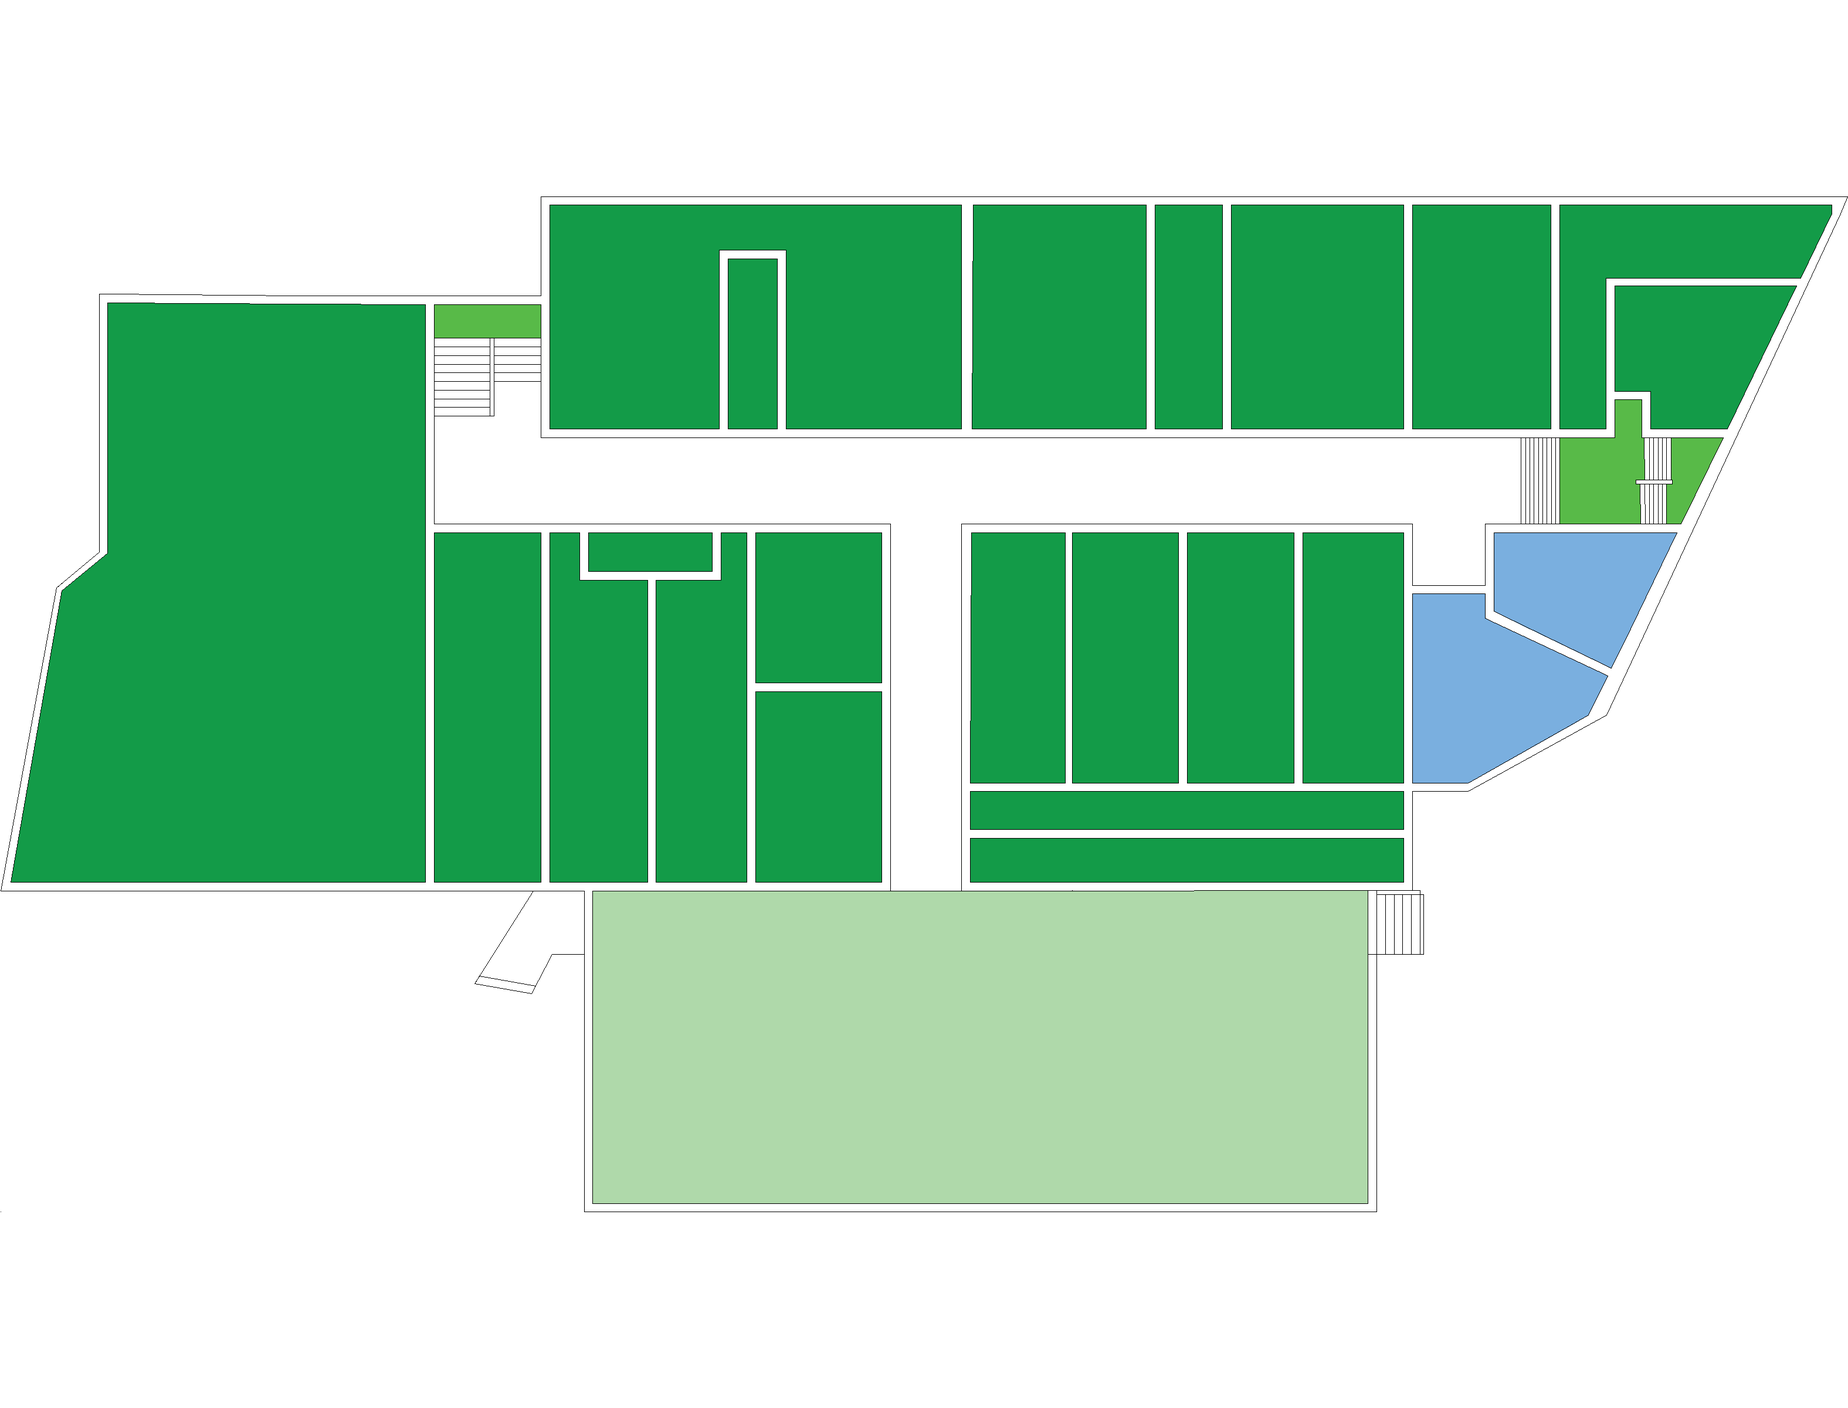
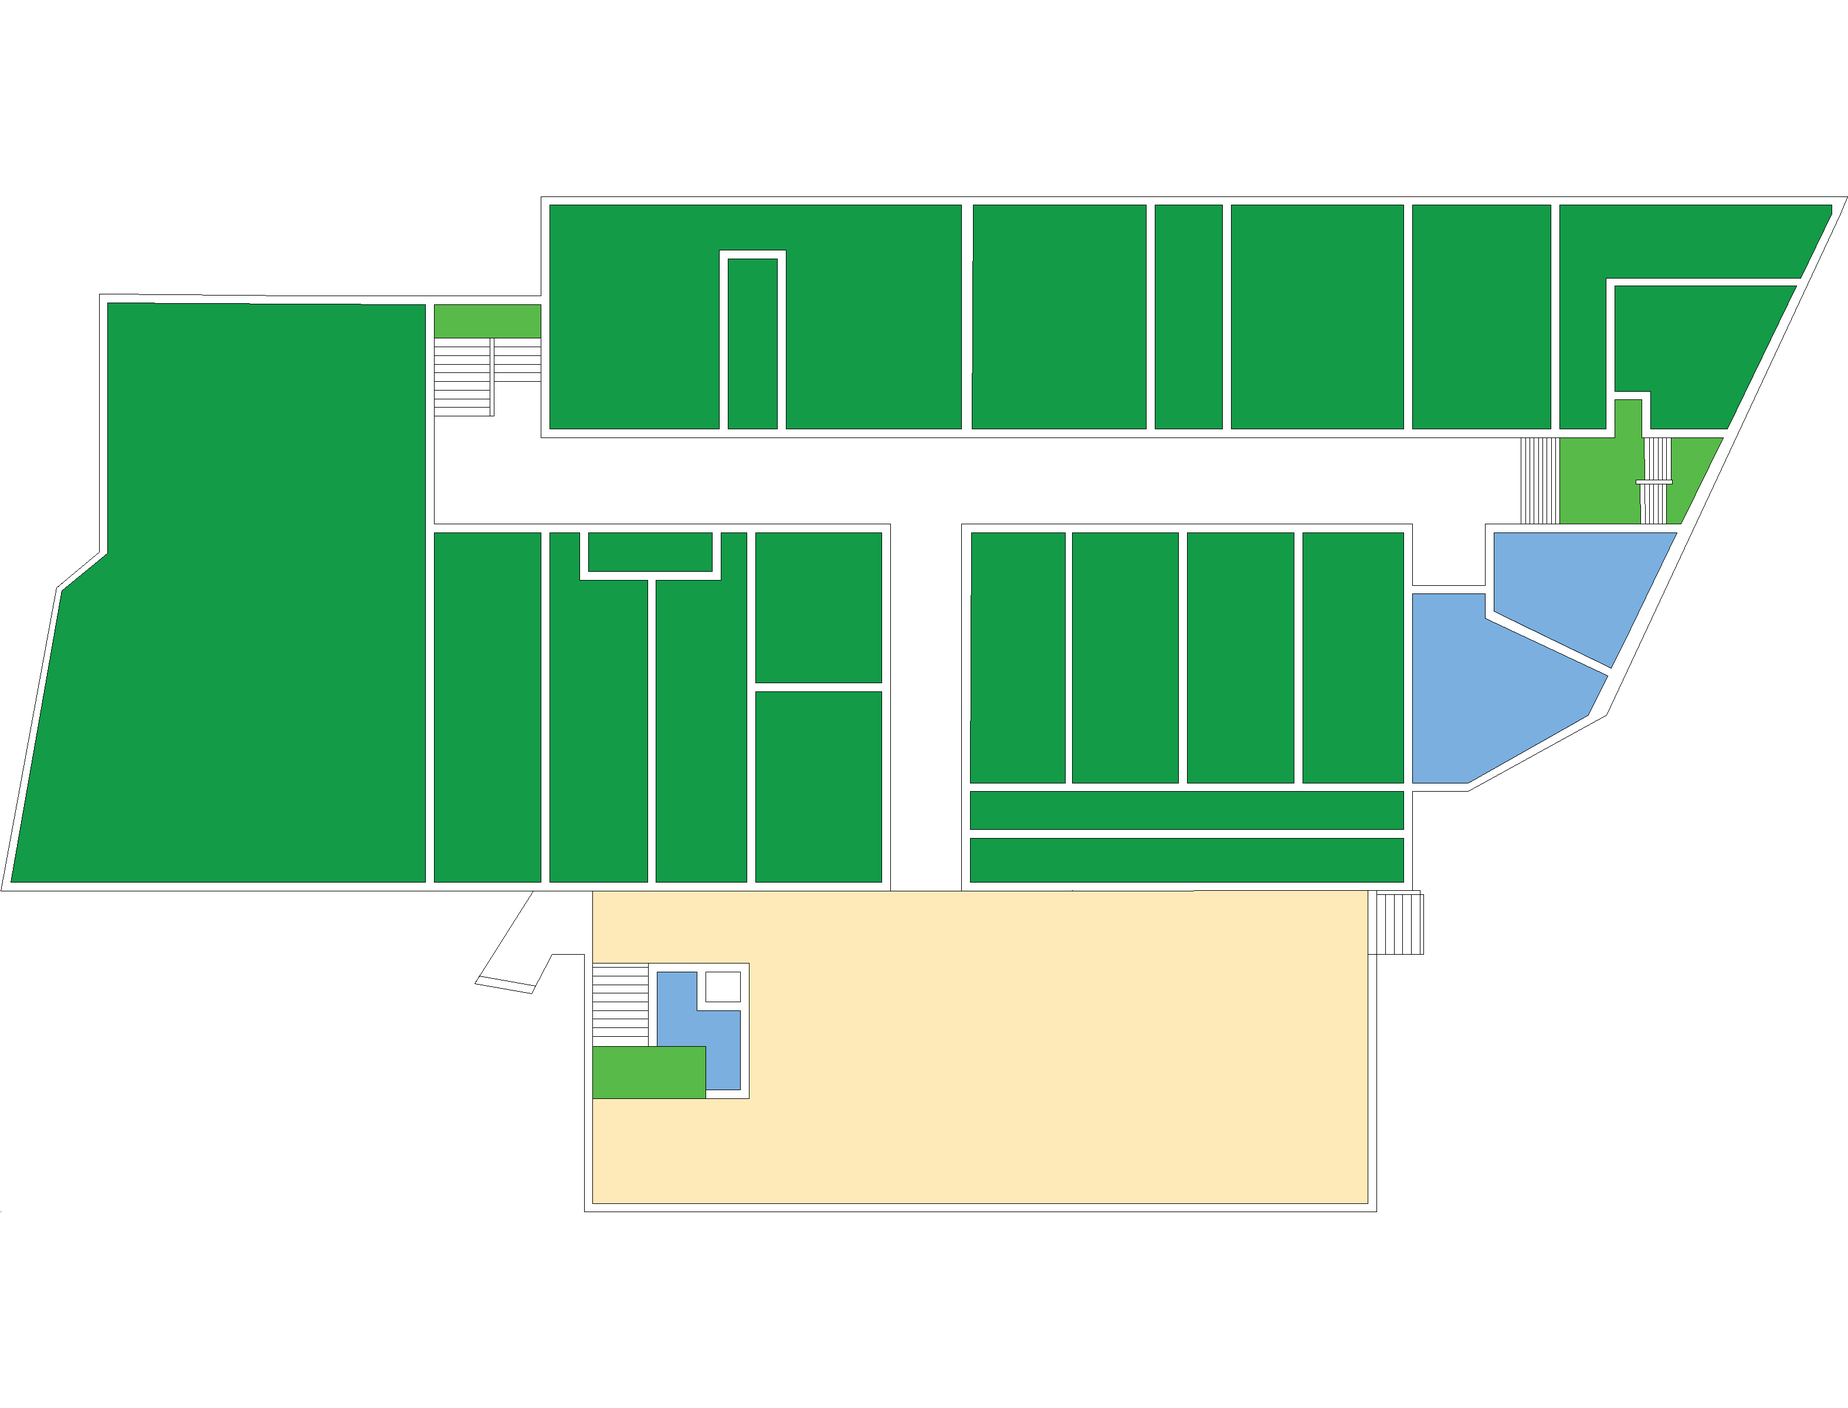
march 25.1

Changed region(s): [[0.311, 0.6247, 0.7464, 0.8746]]

diff --git a/src/buildingNodes.js b/src/buildingNodes.js
@@ -76,7 +76,7 @@ function buildingNodes(buildingName) {
             { id: 71, lat: 3.31, lon: 3.90,  }, { lat: 3, lon: 3.8, title: '',building:'PE', floor:'2nd Floor',node: 71,label: 'classroomLogo' },
             { id: 69, lat: 3.6, lon: 3.90,},
             { id: 70, lat: 3.83, lon: 3.90,  }, { lat: 4.4, lon: 3.84, title: 'classRoom',building:'Science', floor:'2nd Floor',node: 70,label: 'classroomLogo' },
-            { id: 73, lat: 3.24, lon: 3.33, label: 'leaveButton', destination: 'science1stFloor' },
+            { id: 73, lat: 3.24, lon: 3.33, label: 'leaveButton', destination: 'science1stFloor', desti: 408 },
             { id: 75, lat: 3.24, lon: 3.045,  },
             { id: 74, lat: 3.6, lon: 3.045,},
             { id: 72, lat: 3.6, lon: 3.33,}, 
@@ -172,7 +172,12 @@ function buildingNodes(buildingName) {
             { id: 401, lat: 3.45, lon: 7.4,label: 'leaveButton',destination: 'science2ndFloor', desti: 94  },
             { id: 403, lat: 3.45, lon: 2.96,  },
             { id: 404, lat: 3.05, lon: 2.75,label: 'leaveButton',destination:'BRS1stFloor', desti: 130   },
-
+            { id: 410, lat: 3.45, lon: 3.35,  },
+            { id: 411, lat: 2.4, lon: 3.35,  },
+            { id: 412, lat: 2.4, lon: 3.67,  },
+            { id: 413, lat: 2.55, lon: 3.67,label: 'leaveButton', destination: 'science2ndFloor', desti: 73  },
+            { id: 414, lat: 3.45, lon: 3.67,  },
+            { id: 415, lat: 3.17, lon: 3.67,  },
         
         ];
     }
@@ -772,7 +777,7 @@ function buildingNodes(buildingName) {
             { id: 1175, lat: 4.95, lon: 2.9,label: 'leaveButtons',},
             { id: 1176, lat: 3.5, lon: 2.9,label: 'leaveButtons',},
             { id: 1177, lat: 3.5, lon: 2.39,label: 'leaveButtons',},
-            { id: 1178, lat: 3.88, lon: 2.39,label: 'leaveButton',},
+            { id: 1178, lat: 3.88, lon: 2.39,label: 'leaveButton', destination: 'CHTMEDS6thFloor',desti: 1267},
             { id: 1179, lat: 4.95, lon: 3.65,label: 'leaveButtons',},
             { id: 1180, lat: 5.28, lon: 3.65,label: 'leaveButtons',}, { lat: 6.4, lon: 3.55, title: 'classRoom',building:'EDS', floor:'5th Floor',node: 1180,label: 'classroomLogo' },
             { id: 1181, lat: 4.57, lon: 3.65,label: 'leaveButtons',}, { lat: 3.8, lon: 3.55, title: 'classRoom',building:'EDS', floor:'5th Floor',node: 1181,label: 'classroomLogo' },
@@ -788,7 +793,7 @@ function buildingNodes(buildingName) {
             { id: 1191, lat: 6.05, lon: 7.2,label: 'leaveButtons',},
             { id: 1192, lat: 4.8, lon: 7.2,label: 'leaveButtons',},
             { id: 1193, lat: 4.8, lon: 6.75,label: 'leaveButtons',},
-            { id: 1194, lat: 5.07, lon: 6.75,label: 'leaveButton',},
+            { id: 1194, lat: 5.07, lon: 6.75,label: 'leaveButton', destination: 'CHTMEDS6thFloor', desti: 1284},
             { id: 1195, lat: 6.75, lon: 7.2,label: 'leaveButtons',},
             { id: 1196, lat: 7.07, lon: 7.2,label: 'leaveButtons',}, { lat: 7.9, lon: 6.85, title: 'classRoom',building:'CHTM', floor:'5th Floor',node: 1196,label: 'classroomLogo' },
             { id: 1197, lat: 6.75, lon: 7.65,label: 'leaveButtons',},
@@ -800,6 +805,97 @@ function buildingNodes(buildingName) {
             { id: 1203, lat: 7.07, lon: 8.8,label: 'leaveButtons',}, { lat: 7.9, lon: 8.9, title: 'classRoom',building:'CHTM', floor:'5th Floor',node: 1203,label: 'classroomLogo' },
             { id: 1204, lat: 6.47, lon: 8.8,label: 'leaveButtons',},
    
+        ];
+    }
+    else if (buildingName == "CHTMEDS6thFloor") {
+        nodes = [
+            { id: 1260, lat: 3.85, lon: 2.32,label: 'leaveButton', destination: 'CHTMEDS7thFloor',desti: 1337},
+            { id: 1261, lat: 3.5, lon: 2.32,label: 'leaveButtons',},
+            { id: 1262, lat: 3.5, lon: 2.8,label: 'leaveButtons',},
+            { id: 1263, lat: 4.95, lon: 2.8,label: 'leaveButtons',},
+            { id: 1264, lat: 4.95, lon: 2.55,label: 'leaveButtons',},
+            { id: 1265, lat: 5.28, lon: 2.55,label: 'leaveButtons',},  { lat: 6.4, lon: 2.45, title: 'classRoom',building:'EDS', floor:'6th Floor',node: 1265,label: 'classroomLogo' },
+            { id: 1266, lat: 4.95, lon: 2.32,label: 'leaveButtons',},
+            { id: 1267, lat: 4.5, lon: 2.32,label: 'leaveButton', destination: 'CHTMEDS5thFloor', desti: 1122},
+            { id: 1268, lat: 4.95, lon: 1.85,label: 'leaveButtons',},
+            { id: 1269, lat: 2.88, lon: 1.85,label: 'leaveButtons',},
+            { id: 1270, lat: 2.88, lon: 2.02,label: 'leaveButtons',}, { lat: 2.5, lon: 2.52, title: 'classRoom',building:'EDS', floor:'6th Floor',node: 1270,label: 'classroomLogo' },
+            { id: 1271, lat: 2.42, lon: 1.85,label: 'leaveButtons',}, { lat: 1.9, lon: 0.75, title: 'classRoom',building:'EDS', floor:'6th Floor',node: 1271,label: 'classroomLogo' },
+            { id: 1272, lat: 2.88, lon: 1.62,label: 'leaveButtons',}, { lat: 3.3, lon: 0.75, title: 'classRoom',building:'EDS', floor:'6th Floor',node: 1272,label: 'classroomLogo' },
+            { id: 1273, lat: 4.95, lon: 1.58,label: 'leaveButtons',},
+            { id: 1274, lat:  5.28, lon: 1.58,label: 'leaveButtons',},  { lat: 6.4, lon: 1.4, title: 'classRoom',building:'EDS', floor:'6th Floor',node: 1274,label: 'classroomLogo' },
+            { id: 1275, lat: 4.95, lon: 1.3,label: 'leaveButtons',},
+            { id: 1276, lat: 4.57, lon: 1.3,label: 'elevator',}, { lat: 4.3, lon: 1.16, title: 'classRoom',building:'EDS', floor:'6th Floor',node: 1276,label: 'classroomLogo' },
+            { id: 1277, lat: 4.95, lon: .75,label: 'leaveButtons',},
+            { id: 1278, lat: 5.28, lon: .75,label: 'leaveButtons',},  { lat: 6.4, lon: .4, title: 'classRoom',building:'EDS', floor:'6th Floor',node: 1278,label: 'classroomLogo' },
+            { id: 1279, lat: 4.95, lon: 3.65,label: 'leaveButtons',},
+            { id: 1280, lat: 5.28, lon: 3.65,label: 'leaveButtons',}, { lat: 6.4, lon: 3.55, title: 'classRoom',building:'EDS', floor:'6th Floor',node: 1280,label: 'classroomLogo' },
+            { id: 1281, lat: 4.57, lon: 3.65,label: 'leaveButtons',}, { lat: 3.8, lon: 3.55, title: 'classRoom',building:'EDS', floor:'6th Floor',node: 1281,label: 'classroomLogo' },
+            { id: 1282, lat: 4.95, lon: 4.5,label: 'leaveButtons',},
+            { id: 1283, lat: 4.57, lon: 4.5,label: 'leaveButtons',}, { lat: 4, lon: 4.3, title: 'classRoom',building:'EDS', floor:'6th Floor',node: 1283,label: 'classroomLogo' },
+            { id: 1284, lat: 5.07, lon: 6.65,label: 'leaveButton', destination: 'CHTMEDS7thFloor', desti: 1362},
+            { id: 1285, lat: 4.8, lon: 6.65,label: 'leaveButtons',},
+            { id: 1286, lat: 4.8, lon: 7.1,label: 'leaveButtons',},
+            { id: 1287, lat: 6.05, lon: 7.1,label: 'leaveButtons',},
+            { id: 1288, lat: 6.05, lon: 6.65,label: 'leaveButtons',},
+            { id: 1289, lat: 5.67, lon: 6.65,label: 'leaveButton', destination: 'CHTMEDS5thFloor',desti: 1194},
+            { id: 1290, lat: 6.47, lon: 7.6,label: 'elevator',},  { lat: 6.3, lon: 7.45, title: 'classRoom',building:'CHTM', floor:'5th Floor',node: 1198,label: 'classroomLogo' },
+            { id: 1291, lat: 4.95, lon: .5,label: 'leaveButtons',}, { lat: 4.95, lon: .13, title: 'classRoom',building:'EDS', floor:'6th Floor',node: 1291,label: 'classroomLogo' },
+            { id: 1292, lat: 4.57, lon: .75,label: 'leaveButtons',}, { lat: 4.3, lon: .5, title: 'classRoom',building:'EDS', floor:'6th Floor',node: 1292,label: 'classroomLogo' },
+        ];
+    }
+    else if (buildingName == "CHTMEDS7thFloor") {
+        nodes = [
+            { id: 1330, lat: 3.85, lon: 2.32,label: 'leaveButton', destination: 'CHTMEDS8thFloor',desti: 1330},
+            { id: 1331, lat: 3.5, lon: 2.32,label: 'leaveButtons',},
+            { id: 1332, lat: 3.5, lon: 2.8,label: 'leaveButtons',},
+            { id: 1333, lat: 4.95, lon: 2.8,label: 'leaveButtons',},
+            { id: 1334, lat: 4.95, lon: 2.55,label: 'leaveButtons',},
+            { id: 1335, lat: 5.28, lon: 2.55,label: 'leaveButtons',},  { lat: 6.4, lon: 2.45, title: 'classRoom',building:'EDS', floor:'7th Floor',node: 1335,label: 'classroomLogo' },
+            { id: 1336, lat: 4.95, lon: 2.32,label: 'leaveButtons',},
+            { id: 1337, lat: 4.5, lon: 2.32,label: 'leaveButton', destination: 'CHTMEDS5thFloor', desti: 1122},
+            { id: 1338, lat: 4.95, lon: 1.85,label: 'leaveButtons',},
+            { id: 1339, lat: 2.88, lon: 1.85,label: 'leaveButtons',},
+            { id: 1340, lat: 2.88, lon: 2.02,label: 'leaveButtons',}, { lat: 2.5, lon: 2.52, title: 'classRoom',building:'EDS', floor:'7th Floor',node: 1340,label: 'classroomLogo' },
+            { id: 1341, lat: 2.42, lon: 1.85,label: 'leaveButtons',}, { lat: 1.9, lon: 0.75, title: 'classRoom',building:'EDS', floor:'7th Floor',node: 1341,label: 'classroomLogo' },
+            { id: 1342, lat: 2.88, lon: 1.62,label: 'leaveButtons',}, { lat: 3.3, lon: 0.75, title: 'classRoom',building:'EDS', floor:'7th Floor',node: 1342,label: 'classroomLogo' },
+            { id: 1343, lat: 4.95, lon: 1.58,label: 'leaveButtons',},
+            { id: 1344, lat:  5.28, lon: 1.58,label: 'leaveButtons',},  { lat: 6.4, lon: 1.4, title: 'classRoom',building:'EDS', floor:'7th Floor',node: 1344,label: 'classroomLogo' },
+            { id: 1345, lat: 4.95, lon: 1.3,label: 'leaveButtons',},
+            { id: 1346, lat: 4.57, lon: 1.3,label: 'elevator',}, { lat: 4.3, lon: 1.16, title: 'classRoom',building:'EDS', floor:'7th Floor',node: 1346,label: 'classroomLogo' },
+            { id: 1347, lat: 4.95, lon: .75,label: 'leaveButtons',},
+            { id: 1348, lat: 5.28, lon: .75,label: 'leaveButtons',},  { lat: 6.4, lon: .4, title: 'classRoom',building:'EDS', floor:'7th Floor',node: 1348,label: 'classroomLogo' },
+            { id: 1349, lat: 4.95, lon: .5,label: 'leaveButtons',}, { lat: 4.95, lon: .13, title: 'classRoom',building:'EDS', floor:'7th Floor',node: 1349,label: 'classroomLogo' },
+            { id: 1350, lat: 4.57, lon: .75,label: 'leaveButtons',}, { lat: 4.3, lon: .5, title: 'classRoom',building:'EDS', floor:'7th Floor',node: 1350,label: 'classroomLogo' },
+            { id: 1351, lat: 4.95, lon: 3.65,label: 'leaveButtons',},
+            { id: 1352, lat: 5.28, lon: 3.65,label: 'leaveButtons',}, { lat: 6.4, lon: 3.55, title: 'classRoom',building:'EDS', floor:'7th Floor',node: 1352,label: 'classroomLogo' },
+            { id: 1353, lat: 4.57, lon: 3.65,label: 'leaveButtons',}, { lat: 3.8, lon: 3.55, title: 'classRoom',building:'EDS', floor:'7th Floor',node: 1353,label: 'classroomLogo' },
+            { id: 1354, lat: 4.95, lon: 4.5,label: 'leaveButtons',},
+            { id: 1355, lat: 4.57, lon: 4.5,label: 'leaveButtons',}, { lat: 4, lon: 4.3, title: 'classRoom',building:'EDS', floor:'7th Floor',node: 1355,label: 'classroomLogo' },
+            { id: 1356, lat: 4.95, lon: 5,label: 'leaveButtons',},
+            { id: 1357, lat: 6.07, lon: 5,label: 'leaveButtons',},
+            { id: 1358, lat: 6.07, lon: 5.85,label: 'leaveButtons',},
+            { id: 1359, lat: 6.46, lon: 5.85,label: 'leaveButtons',}, { lat: 7.4, lon: 5.7, title: 'classRoom',building:'CHTM', floor:'7th Floor',node: 1359,label: 'classroomLogo' },
+            { id: 1360, lat: 5.73, lon: 5.85,label: 'leaveButtons',}, { lat: 5.2, lon: 5.85, title: 'classRoom',building:'CHTM', floor:'7th Floor',node: 1360,label: 'classroomLogo' },
+            { id: 1361, lat: 6.07, lon: 6.65,label: 'leaveButtons',},
+            { id: 1362, lat: 5.67, lon: 6.65,label: 'leaveButton', destination: 'CHTMEDS4thFloor',desti: 1149},
+            { id: 1363, lat: 6.07, lon: 7.1,label: 'leaveButtons',},
+            { id: 1364, lat: 4.8, lon: 7.1,label: 'leaveButtons',},
+            { id: 1365, lat: 4.8, lon: 6.65,label: 'leaveButtons',},
+            { id: 1366, lat: 5.07, lon: 6.65,label: 'leaveButton', destination: 'CHTMEDS6thFloor', desti: 1284},
+            { id: 1367, lat: 6.81, lon: 7.1,label: 'leaveButtons',},
+            { id: 1368, lat: 7.13, lon: 7.1,label: 'leaveButtons',}, { lat: 8, lon: 6.7, title: 'classRoom',building:'CHTM', floor:'7th Floor',node: 1368,label: 'classroomLogo' },
+            { id: 1369, lat: 6.81, lon: 7.58,label: 'leaveButtons',},
+            { id: 1370, lat: 6.49, lon: 7.58,label: 'elevator',},  { lat: 6.3, lon: 7.4, title: 'classRoom',building:'CHTM', floor:'7th Floor',node: 1370, },
+            { id: 1371, lat: 6.81, lon: 7.9,label: 'leaveButtons',},
+            { id: 1372, lat:  7.13, lon: 7.9,label: 'leaveButtons',}, { lat: 8, lon: 7.7, title: 'classRoom',building:'CHTM', floor:'7th Floor',node: 1372,label: 'classroomLogo' },
+            { id: 1373, lat: 6.51, lon: 7.9,label: 'leaveButtons',}, { lat: 6, lon: 7.6, title: 'classRoom',building:'CHTM', floor:'7th Floor',node: 1375,label: 'classroomLogo' },
+            { id: 1374, lat: 6.81, lon: 8.8,label: 'leaveButtons',},
+            { id: 1375, lat:  7.13, lon: 8.8,label: 'leaveButtons',}, { lat: 8, lon: 8.9, title: 'classRoom',building:'CHTM', floor:'7th Floor',node: 1375,label: 'classroomLogo' },
+            { id: 1376, lat: 6.51, lon: 8.8,label: 'leaveButtons',}, { lat: 6.2, lon: 8.4, title: 'classRoom',building:'CHTM', floor:'7th Floor',node: 1376,label: 'classroomLogo' },
+           
+            
+            
         ];
     }
     else if (buildingName == "BRS1stFloor") {

diff --git a/src/dijktrasAlgo.js b/src/dijktrasAlgo.js
@@ -306,11 +306,16 @@ g.addEdge(398, 396, 1);
 g.addEdge(398, 399, 1);
 g.addEdge(398, 400, 1);
 g.addEdge(401, 400, 1);
-g.addEdge(403, 400, 1); 
+g.addEdge(4014, 400, 1); 
+g.addEdge(414, 415, 1); 
+g.addEdge(414, 410, 1); 
+g.addEdge(403, 410, 1); 
+g.addEdge(411, 410, 1); 
+g.addEdge(411, 412, 1); 
+g.addEdge(413, 412, 1); 
+g.addEdge(413, 73, 1); 
 g.addEdge(403, 404, 1);
 g.addEdge(130, 404, 1);
-
-
 //science 2nd Floor
 g.addEdge(0, 85, 1);
 g.addEdge(0, 87, 1);
@@ -1104,6 +1109,41 @@ g.addEdge(1057, 1058, 1);
 g.addEdge(1059, 1056, 1);
 g.addEdge(1059, 1060, 1);
 
+//CHTM EDS 6TH FLOOR
+g.addEdge(1260, 1261, 1);
+g.addEdge(1262, 1261, 1);
+g.addEdge(1262, 1263, 1);
+g.addEdge(1264, 1263, 1);
+g.addEdge(1264, 1265, 1);
+g.addEdge(1264, 1266, 1);
+g.addEdge(1267, 1266, 1);
+g.addEdge(1267, 1178, 1);
+g.addEdge(1268, 1266, 1);
+g.addEdge(1268, 1269, 1);
+g.addEdge(1270, 1269, 1);
+g.addEdge(1271, 1269, 1);
+g.addEdge(1272, 1269, 1);
+g.addEdge(1268, 1273, 1);
+g.addEdge(1274, 1273, 1);
+g.addEdge(1275, 1273, 1);
+g.addEdge(1275, 1276, 1);
+g.addEdge(1275, 1277, 1);
+g.addEdge(1278, 1277, 1);
+g.addEdge(1291, 1277, 1);
+g.addEdge(1292, 1277, 1);
+g.addEdge(1279, 1263, 1);
+g.addEdge(1279, 1280, 1);
+g.addEdge(1279, 1281, 1);
+g.addEdge(1279, 1282, 1);
+g.addEdge(1283, 1282, 1);
+g.addEdge(1284, 1285, 1);
+g.addEdge(1286, 1285, 1);
+g.addEdge(1286, 1287, 1);
+g.addEdge(1288, 1287, 1);
+g.addEdge(1288, 1289, 1);
+g.addEdge(1194, 1289, 1);
+
+
 
 //CHTM EDS 5TH FLOOR
 g.addEdge(1160, 1024, 1);
@@ -1190,7 +1230,7 @@ g.addEdge(1135, 1133, 1);
 g.addEdge(1135, 1136, 1);
 g.addEdge(1137, 1136, 1);
 g.addEdge(1137, 1149, 1);
-g.addEdge(1194, 1149, 1);
+g.addEdge(1190, 1149, 1);
 g.addEdge(1135, 1138, 1);
 g.addEdge(1139, 1138, 1);
 g.addEdge(1139, 1140, 1);
@@ -1203,6 +1243,57 @@ g.addEdge(1146, 1145, 1);
 g.addEdge(1147, 1145, 1);
 g.addEdge(1147, 1148, 1);
 g.addEdge(1122, 1174, 1);
+
+//EDS CHTM 7th Floor
+g.addEdge(1330, 1331, 1);
+g.addEdge(1332, 1331, 1);
+g.addEdge(1332, 1333, 1);
+g.addEdge(1334, 1333, 1);
+g.addEdge(1334, 1335, 1);
+g.addEdge(1334, 1336, 1);
+g.addEdge(1337, 1336, 1);
+g.addEdge(1338, 1336, 1);
+g.addEdge(1338, 1339, 1);
+g.addEdge(1340, 1339, 1);
+g.addEdge(1341, 1339, 1);
+g.addEdge(1341, 1339, 1);
+g.addEdge(1338, 1343, 1);
+g.addEdge(1344, 1343, 1);
+g.addEdge(1344, 1345, 1);
+g.addEdge(1346, 1345, 1);
+g.addEdge(1347, 1345, 1);
+g.addEdge(1347, 1348, 1);
+g.addEdge(1347, 1349, 1);
+g.addEdge(1347, 1350, 1);
+g.addEdge(1333, 1351, 1);
+g.addEdge(1352, 1351, 1);
+g.addEdge(1353, 1351, 1);
+g.addEdge(1354, 1351, 1);
+g.addEdge(1354, 1355, 1);
+g.addEdge(1356, 1354, 1);
+g.addEdge(1356, 1357, 1);
+g.addEdge(1358, 1357, 1);
+g.addEdge(1358, 1359, 1);
+g.addEdge(1358, 1360, 1);
+g.addEdge(1358, 1361, 1);
+g.addEdge(1362, 1361, 1);
+g.addEdge(1363, 1361, 1);
+g.addEdge(1363, 1364, 1);
+g.addEdge(1365, 1364, 1);
+g.addEdge(1365, 1366, 1);
+g.addEdge(1363, 1367, 1);
+g.addEdge(1368, 1367, 1);
+g.addEdge(1369, 1367, 1);
+g.addEdge(1369, 1370, 1);
+g.addEdge(1369, 1371, 1);
+g.addEdge(1372, 1371, 1);
+g.addEdge(1373, 1371, 1);
+g.addEdge(1374, 1371, 1);
+g.addEdge(1374, 1375, 1);
+g.addEdge(1374, 1376, 1);
+g.addEdge(1337, 1260, 1);
+g.addEdge(1362, 1284, 1);
+
 
 
 //EDS 3rd Floor
@@ -1270,6 +1361,12 @@ for(let i =1160; i<=1210; i++){
 }
 for(let i =1100; i<=1159; i++){
     g.setNodeBuilding(i,"CHTMEDS4thFloor");
+}
+for(let i =1260; i<=1320; i++){
+    g.setNodeBuilding(i,"CHTMEDS6thFloor");
+}
+for(let i =1330; i<=1400; i++){
+    g.setNodeBuilding(i,"CHTMEDS7thFloor");
 }
 for(let i =1220; i<=1250; i++){
     g.setNodeBuilding(i,"EDS3rdFloor");

diff --git a/src/input.jsx b/src/input.jsx
@@ -16,6 +16,8 @@ import science5thFloorPlan from './assets/Science5thFloorPlan.png';
 import science6thFloorPlan from './assets/Science6thFloorPlan.png';
 import CHTMEDS4thFloorPlan from './assets/CHTMEDS4thFloorPlan.png';
 import CHTMEDS5thFloorPlan from './assets/CHTMEDS5thFloorPlan.png';
+import CHTMEDS6thFloorPlan from './assets/CHTMEDS6thFloorPlan.png';
+import CHTMEDS7thFloorPlan from './assets/CHTMEDS7thFloorPlan.png';
 import EDS3rdFloorPlan from './assets/EDS3rdFloorPlan.png';
 import main4thFloorPlan from './assets/Main4thFloorPlan.png';
 import main5thFloorPlan from './assets/Main5thFloorPlan.png';
@@ -232,6 +234,12 @@ function TextInput({ style }) {
         }
         else if(floorName === 'CHTMEDS5thFloor'){
             addImageOverlay(CHTMEDS5thFloorPlan);
+        }
+        else if(floorName === 'CHTMEDS6thFloor'){
+            addImageOverlay(CHTMEDS6thFloorPlan);
+        }
+        else if(floorName === 'CHTMEDS7thFloor'){
+            addImageOverlay(CHTMEDS7thFloorPlan);
         }
         else if(floorName === 'EDS3rdFloor'){
             addImageOverlay(EDS3rdFloorPlan);
@@ -814,6 +822,12 @@ function TextInput({ style }) {
         }
         else if(buildingName == "CHTMEDS5thFloor") {
             setCurrentFloor("EDS 5th Floor, CHTM Building 5th Floor");
+        }
+        else if(buildingName == "CHTMEDS6thFloor") {
+            setCurrentFloor("EDS 6th Floor, CHTM Building 6th Floor");
+        }
+        else if(buildingName == "CHTMEDS7thFloor") {
+            setCurrentFloor("EDS 7th Floor, CHTM Building 7th Floor");
         }
         else if(buildingName == "EDS3rdFloor") {
             setCurrentFloor("EDS 3rd Floor");
